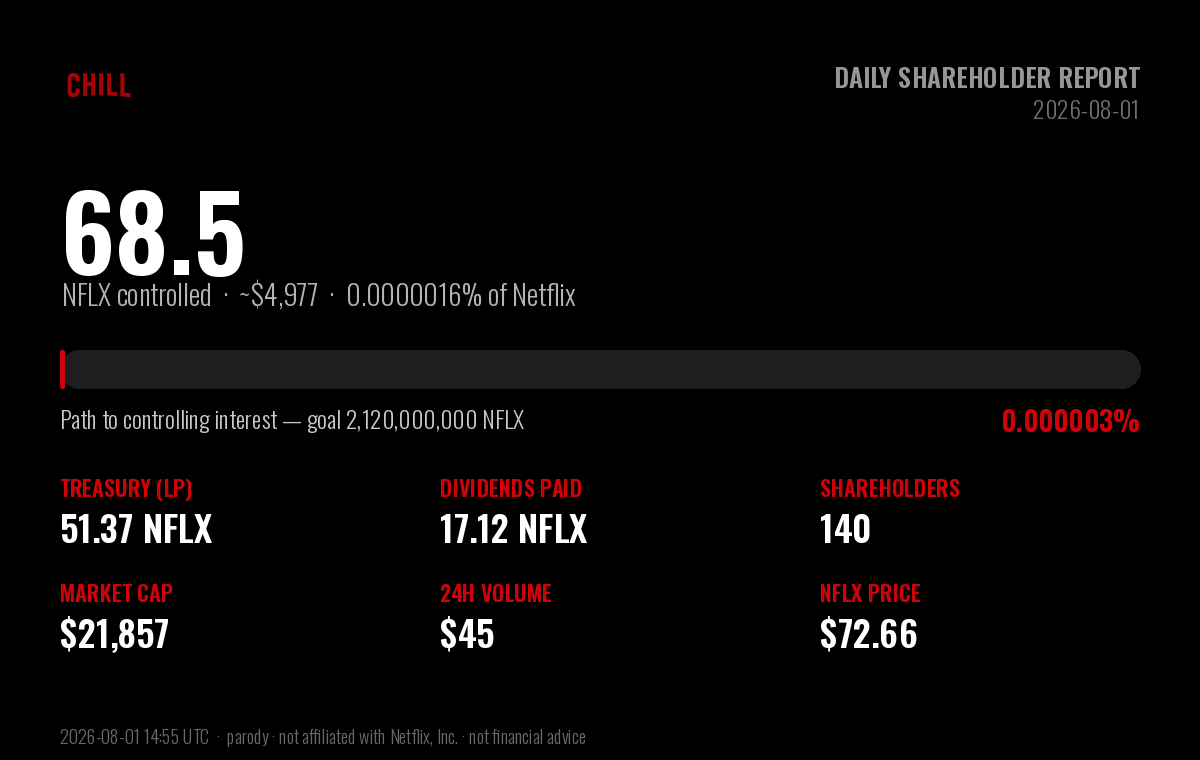
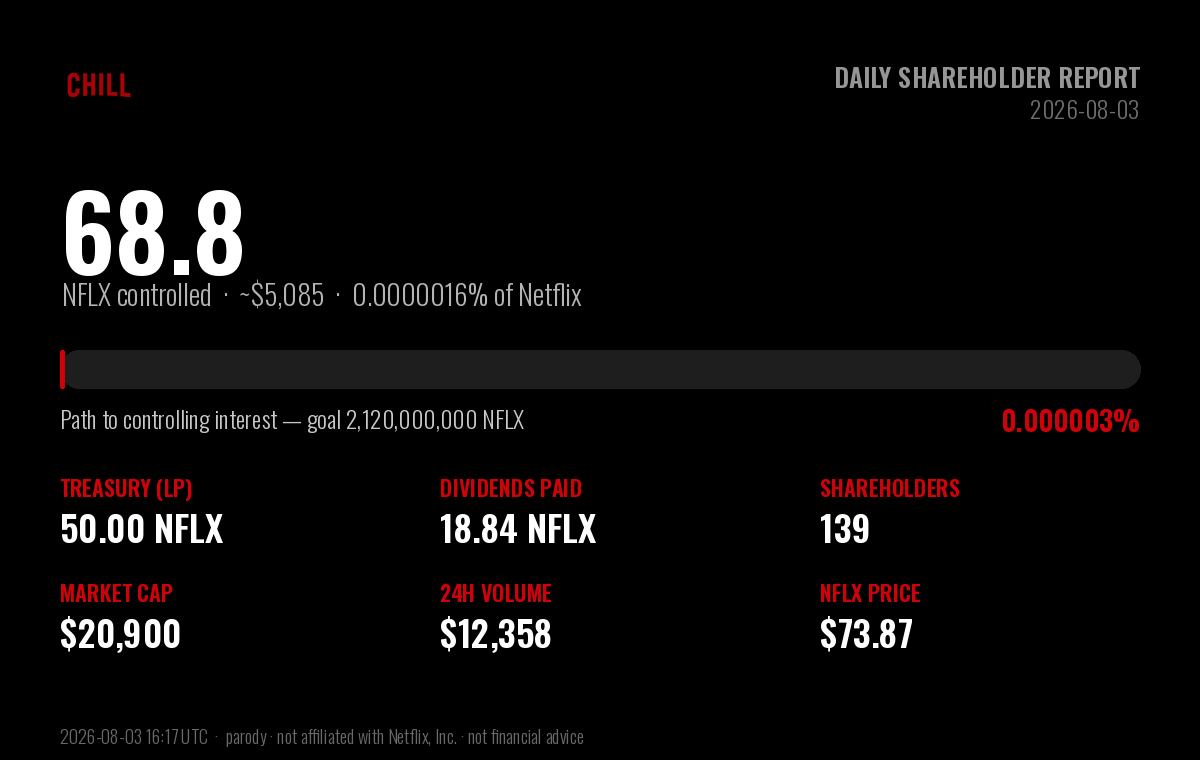
chore: daily $CHILL shareholder report (2026-08-03)

diff --git a/daily-holder-report/README.md b/daily-holder-report/README.md
@@ -1,6 +1,6 @@
 # $CHILL — Daily Shareholder Report
 
-### Netflix and Chill · Report to Shareholders · 2026-08-01
+### Netflix and Chill · Report to Shareholders · 2026-08-03
 
 > **Corporate objective:** acquire a controlling interest in Netflix (NFLX).
 > Netflix has **4,220,000,000** shares outstanding; a majority
@@ -13,53 +13,53 @@
 
 | Metric | Value |
 |---|---|
-| **NFLX under $CHILL control** | **68.50 NFLX** (~$4,977) |
-| Stake in Netflix | 0.000001623% of shares outstanding |
+| **NFLX under $CHILL control** | **68.84 NFLX** (~$5,085) |
+| Stake in Netflix | 0.000001631% of shares outstanding |
 | Progress to controlling interest | 0.0000032% of 2,120,000,000 |
-| Shares remaining to majority | 2,119,999,932 NFLX |
+| Shares remaining to majority | 2,119,999,931 NFLX |
 
 ## Balance sheet — NFLX holdings
 
 | Holding | NFLX | USD |
 |---|---|---|
-| Treasury (protocol-owned liquidity) | 51.37 | $3,733 |
-| Dividends distributed to shareholders | 17.12 | $1,244 |
-| **Total NFLX controlled** | **68.50** | **$4,977** |
+| Treasury (protocol-owned liquidity) | 50.00 | $3,694 |
+| Dividends distributed to shareholders | 18.84 | $1,392 |
+| **Total NFLX controlled** | **68.84** | **$5,085** |
 
 ## Last 24 hours
 
 | Metric | Value |
 |---|---|
-| Trading volume | 0.63 NFLX (~$45) |
-| Net NFLX accumulated | 0.03 NFLX |
-| Dividends generated | 0.0063 NFLX |
-| Transactions | 4 (3 buys / 1 sells) |
-| $CHILL price change | +2.0% |
+| Trading volume | 167.29 NFLX (~$12,358) |
+| Net NFLX accumulated | 2.12 NFLX |
+| Dividends generated | 1.6729 NFLX |
+| Transactions | 114 (58 buys / 56 sells) |
+| $CHILL price change | +1.9% |
 
 ## Shareholder & market data
 
 | Metric | Value |
 |---|---|
-| Shareholders of record | 140 |
-| Lifetime unique participants | 508 |
+| Shareholders of record | 139 |
+| Lifetime unique participants | 553 |
 | Shares outstanding ($CHILL) | 1,000,000,000 |
-| Market capitalization | $21,857 |
-| $CHILL price | $0.00002186 |
-| NFLX price | $72.66 |
-| Lifetime volume | 1,712.30 NFLX (~$124,421) |
-| Lifetime transactions | 2,087 (1,242 buys / 845 sells) |
-| Days since IPO (launch) | 12 |
+| Market capitalization | $20,900 |
+| $CHILL price | $0.00002090 |
+| NFLX price | $73.87 |
+| Lifetime volume | 1,883.97 NFLX (~$139,166) |
+| Lifetime transactions | 2,213 (1,306 buys / 907 sells) |
+| Days since IPO (launch) | 14 |
 
 ## Per-share metrics
 
 | Metric | Value |
 |---|---|
-| NFLX backing per 1M $CHILL | 0.068497 NFLX |
-| Dividends per 1M $CHILL | 0.017123 NFLX |
+| NFLX backing per 1M $CHILL | 0.068843 NFLX |
+| Dividends per 1M $CHILL | 0.018840 NFLX |
 
 ---
 
-*Report generated 2026-08-01 14:55 UTC · block 25,126,929 · data via the Sentry-Robinhood
+*Report generated 2026-08-03 16:17 UTC · block 26,899,689 · data via the Sentry-Robinhood
 subgraph and Robinhood Chain explorer.*
 
 **Disclaimer:** $CHILL is an independent, community-driven **parody** token. It is
